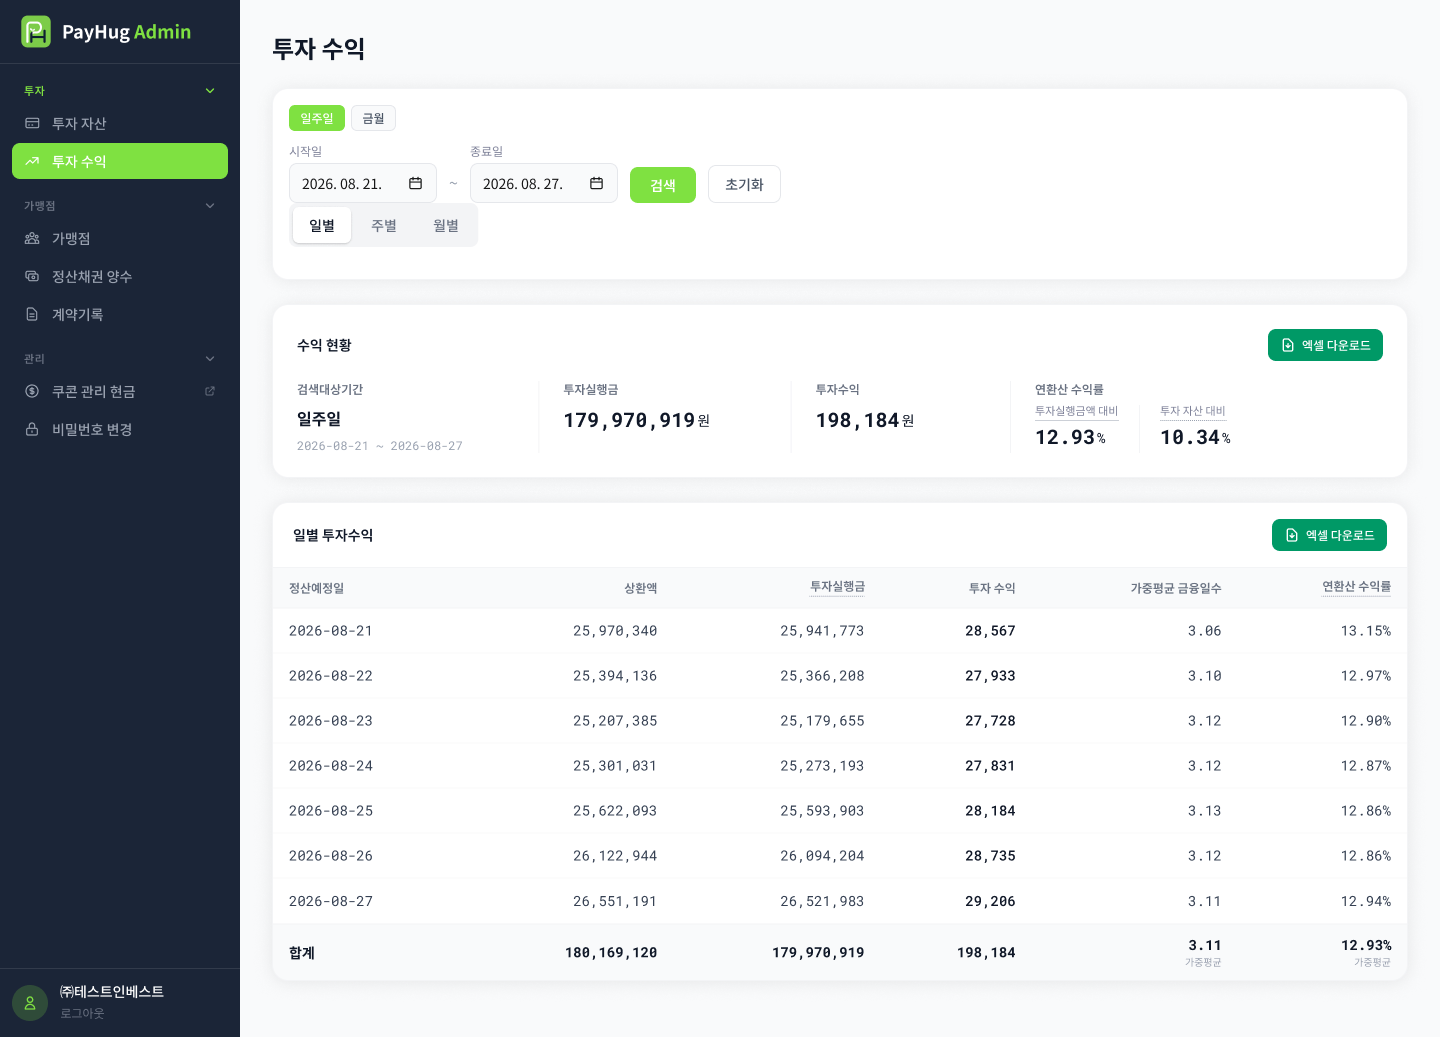
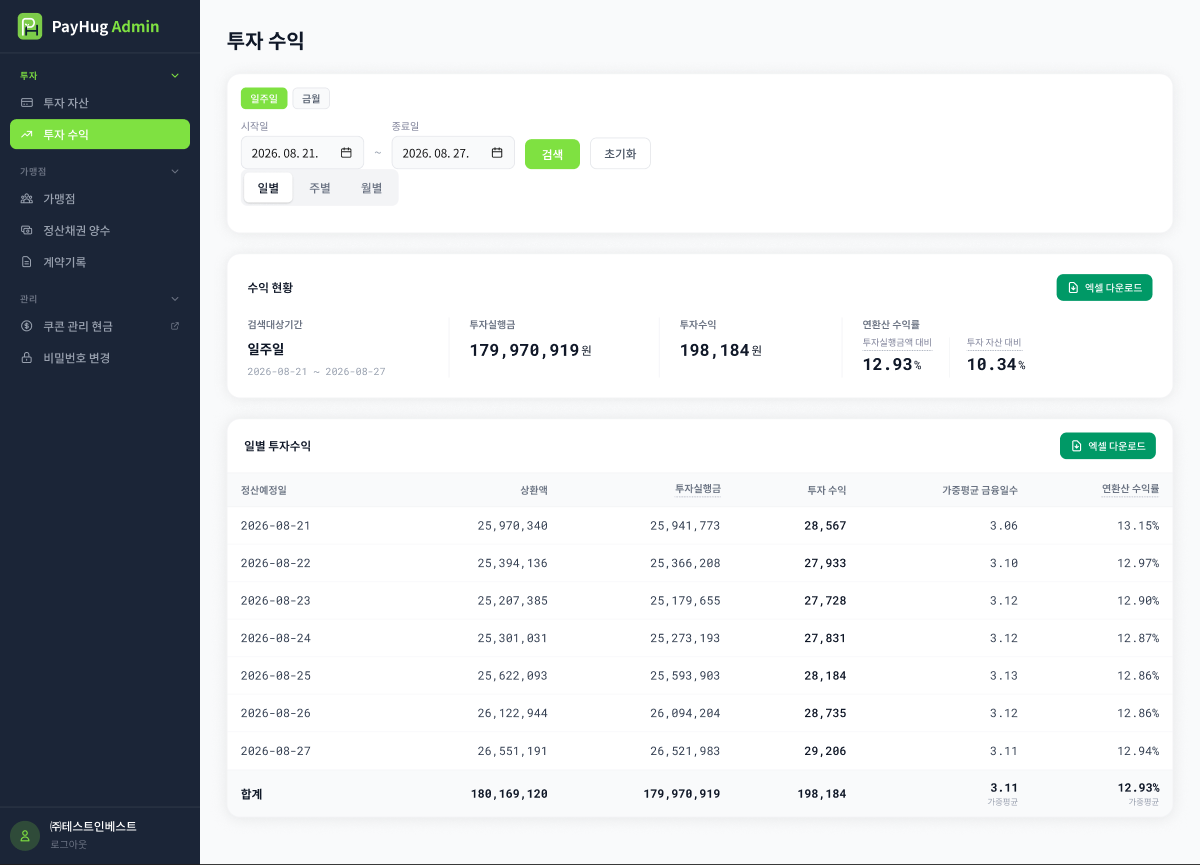
투자자 어드민 — 입금부족액 0 판 배포 QA 보고(step16) · Figma 검수 캡처

diff --git a/payhug-spec/_pipeline/investor_admin/session_0904/reports/step16_qa_zero.md b/payhug-spec/_pipeline/investor_admin/session_0904/reports/step16_qa_zero.md
@@ -1,0 +1,199 @@
+# step16 QA — 원장 입금부족액 0 · 두 배포본 실측
+
+2026-09-09. 통합본 https://payhug-investor-demo.vercel.app/ (`Joo2n/payhug-investor-admin` main `2db5f01`) · 시연본 https://payhug-investor-prototype.vercel.app/ (`Joo2n/payhug-investor-prototype` main `1af503f`). 직전 판 통합본 `d9af5a7` · 시연본 `7ba7f26` 은 git 에서 꺼내 로컬 서버(127.0.0.1:8777)로 띄워 대조. 헤드리스 크롬(`--headless=new`, CDP 포트 9777~9780, 전용 프로필) + `Input.dispatchMouseEvent` 실클릭 · 실제 hover · `Browser.downloadWillBegin/downloadProgress` 실다운로드. 뷰포트 `Emulation.setDeviceMetricsOverride` 1440×900. 파일 수정 0건, 띄운 크롬 4개 전부 종료(잔존 0).
+
+## 1. 하지 않은 것 · 확인 못 한 것
+
+| 구분 | 무엇 | 왜 |
+|---|---|---|
+| 하지 않음 | 문서 페이지·용어 해설(`glossary.html` 등 13장, 통합본 전용)의 옛 값 판정 | 지시대로 세어 적기만 함(§5). 배포본 = 로컬 (cmp 13/13 동일) |
+| 하지 않음 | 시연본 재동기화·Figma·`gate_prototype.js` | 범위 밖 |
+| 하지 않음 | 가맹점·정산채권 양수·계약기록·비밀번호 화면의 값 판정 | 이번 변경 대상 아님. 옛 값 잔존 스캔에는 포함(48·35 라우트) |
+| 확인 못 함 | 증명서 PDF 의 「투자자산 100,000,000 · 순현금 · 3.04일 · 13.21%」 | PDF 본문에 그 값이 없음(직전 판 `d9af5a7` PDF 도 없음). PDF 의 투자 자산 값은 가맹점별 표 합계 80,000,000 하나 |
+| 확인 못 함 | 시연본의 직전 판 툴팁을 배포 URL 로 | 배포는 최신만 있어 git `7ba7f26` 로컬 렌더로 대조 |
+
+## 2. 판정표
+
+PASS **44** · FAIL **2** (§2-10 C4 · §2-8 G8). 값은 전부 실측(확정). 기대값 출처는 지시문과 `ledger_facts.json`(믿지 않고 화면·파일에서 다시 읽음).
+
+### 2-1. 배포본 = 로컬 (A)
+
+| # | 대상 | 항목 | 기대 | 실측 | 판정 |
+|---|---|---|---|---|---|
+| A1 | 통합본 `app.html` | sha256 · md5 = 로컬 | 같음 | `dc560a28…5096` · `8344db8f…8355` 둘 다 같음 | PASS |
+| A2 | 통합본 루트 `index.html` | sha256 = 로컬 | 같음 | `5b123f27…eee2` 같음 | PASS |
+| A3 | 시연본 `index.html` | sha256 · md5 = 로컬 | 같음 | `15b59269…8e12` · `3baa75e1…9161` 같음 | PASS |
+| A4 | 양 배포본 `assets/xlsx` 6종 · `assets/docs` PDF | 배포 = 로컬 | 같음 | 6 xlsx + PDF, 통합본·시연본 모두 로컬과 sha256 동일 (`94caf7fd` `16a3ef38` `527ce3ba` `00ef9b31` `9f1a0ed0` `b7b77c29` · PDF `bb5a7833`) | PASS |
+| A5 | 통합본 낱장 15장 · 문서 13장 | 배포 = 로컬 | 같음 | `cmp` 28/28 동일 | PASS |
+
+### 2-2. 투자 자산 (통합본 · 시연본 같은 값)
+
+| # | 항목 | 기대 | 실측 | 판정 |
+|---|---|---|---|---|
+| B1 | 카드 4 | 100,000,000 · 80,000,000 · 20,000,000 · 13.21% (부제 3.04일) | 「투자자산 100,000,000원 / 투자실행액 + 순현금」 「투자실행액 80,000,000원」 「순현금 20,000,000원」 「예상 연환산 수익률 13.21% / 가중평균 금융일수 3.04일 기준」 | PASS |
+| B2 | 현황 표 | 열 5 · 입금부족률 0.00% | 머리 「자산 구분·금액 (원)·가중평균 금융일수·입금부족률·예상 연환산 수익률」 5열 · 투자실행액 80,000,000 / 3.04일 / **0.00%** / 13.21% · 순현금 20,000,000 / - / - / - · 합계 (투자자산) 100,000,000 | PASS |
+| B3 | 가맹점별 표 | 8행 입금부족률 0.00%, 나머지 같음 | 8행 전부 **0.00%** · 투자실행액 19,334,743 ~ 3,981,371 · W 3.02 ~ 2.52 · 예상 연환산 13.29 ~ 15.95 · 비중 24.2 · 22.6 · 14.8 · 11.6 · 8.8 · 7.0 · 6.0 · 5.0 · 「총 8건」 · 보기 10 | PASS |
+| B4 | 투자자 공유 정리 | 카드 아래 비중·보관 줄 0 | `.summary-sub` 는 「투자실행액 + 순현금」 「가중평균 금융일수 3.04일 기준」 2줄뿐. 화면 텍스트 「보관」 0 · 「비중」 1(가맹점별 표 열머리) | PASS |
+
+### 2-3. 투자 수익 — 일별 기본 기간 (통합본 · 시연본 같은 값)
+
+| # | 항목 | 기대 | 실측 | 판정 |
+|---|---|---|---|---|
+| C1 | 카드 | 179,970,919 · 198,184 · ④ 12.93% · ⑤ 10.34% | 「검색대상기간 일주일 2026-08-21 ~ 2026-08-27」 「투자실행금 179,970,919원」 「투자수익 198,184원」 「연환산 수익률 투자실행금액 대비 12.93% · 투자 자산 대비 10.34%」 | PASS |
+| C2 | 08-21 행 | 25,970,340 · 25,941,773 · 28,567 · 3.06 · 13.15% | 같음. 나머지 6행: 08-22 25,394,136/25,366,208/27,933/3.10/12.97% · 08-23 25,207,385/25,179,655/27,728/3.12/12.90% · 08-24 25,301,031/25,273,193/27,831/3.12/12.87% · 08-25 25,622,093/25,593,903/28,184/3.13/12.86% · 08-26 26,122,944/26,094,204/28,735/3.12/12.86% · 08-27 26,551,191/26,521,983/29,206/3.11/12.94% | PASS |
+| C3 | 합계 행 | 180,169,120 · 179,970,919 · 198,184 · 3.11 · 12.93% | 「합계 180,169,120 / 179,970,919 / 198,184 / 3.11 가중평균 / 12.93% 가중평균」 | PASS |
+| C5 | 투자 수익 ÷ 투자실행금 = 0.1101% (±0.0001) 7행 | 7/7 | 0.110120 · 0.110119 · 0.110121 · 0.110121 · 0.110120 · 0.110120 · 0.110120 % → **7/7** (합계 0.110120%) | PASS |
+
+### 2-4. 투자 수익 — 주별 · 월별 · 금월 · 빈 상태 · 초기화 (양쪽 같은 값, 실클릭)
+
+| # | 항목 | 실측 | 판정 |
+|---|---|---|---|
+| C6 | 「주별」 클릭 → 4주 자동 선택 → 「4주」 클릭 | 배지 「주별」 · 08-03 ~ 08-27 · 648,903,503원 · 714,567원 · 13.27% / 10.58% · 4행(200,658 · 198,535 · 201,418 · 113,956) · 합계 649,618,119 / 648,903,503 / 714,567 / 3.03 / 13.27% | PASS |
+| C6′ | 「12주」 클릭 | 06-08 ~ 08-27 · 2,114,145,541원 · 2,328,080원 · 13.25% / 10.58% · 12행 · 합계 2,116,473,764 / 2,114,145,541 / 2,328,080 / 3.03 / 13.25% | PASS |
+| C7 | 「월별」 클릭 → 6개월 자동 → 「6개월」 클릭 | 배지 「월별」 · 03-01 ~ 08-27 · 4,700,503,303원 · 5,176,160원 · 13.25% / 10.58% · 6행 연환산 13.20 · 13.37 · 13.16 · 13.14 · 13.35 · 13.27 (= `ledger_facts.monthTy`) · W 3.05 · 3.01 · 3.05 · 3.06 · 3.01 · 3.03 | PASS |
+| C7′ | 「3개월」 클릭 | 06-01 ~ 08-27 · 2,296,624,838원 · 2,529,024원 · 13.25% / 10.58% · 3행 | PASS |
+| C8 | 「일별」 복귀 → 「금월」 클릭 | 일별 복귀 시 일주일 기본으로 돌아옴(C1 과 같음). 금월 08-01 ~ 08-27 · 702,712,201원 · 773,821원 · 13.27% / 10.59% · 27행 · 비율 0.1101% 27/27 | PASS |
+| C9 | 시작일 02-01 · 종료일 02-07 입력 → 「검색」 클릭 | 배지 「결과 없음」 · 직접입력 · 0원 · 0원 · 0.00% / 0.00% · 표 「조회 결과가 없습니다.」 · 엑셀 버튼 2개 disabled · 토스트 「조회 결과 0건 · 2026-02-01 ~ 2026-02-07」 | PASS |
+| C10 | 「초기화」 클릭 | 일주일 08-21 ~ 08-27 로 복귀, 값 C1~C3 과 같음 | PASS |
+
+### 2-5. 투자 시뮬레이션 (통합본 전용)
+
+| # | 항목 | 기대 | 실측 | 판정 |
+|---|---|---|---|---|
+| D1 | 기본 입력 | 미지급률 0 · 과지급률 0 | 투자자산 규모 99,912,000 · 유휴자금 20 · 할인율 0.11 · 순현금 20,000,000 · **미지급률 0 · 과지급률 0** · 08-21 ~ 08-27 · 채권 8건 합계 120,000,000원 (`app.html:2488` `SIM_DEFAULT`) | PASS |
+| D2 | 「시뮬레이션 실행」 실클릭 → 결과 현황 표 | 입금부족률 0.00% | 버튼 「계산 중...」(disabled) → 배지 「실행 결과」 · 해시 `#invest-sim/result` · 현황 표 투자실행액 79,912,000 / 3.04일 / **0.00%** / 13.21% | PASS |
+| D3 | 결과 나머지 | 기록 | 카드 99,912,000 · 79,912,000 · 20,000,000 · 13.21%(3.04일) · 수익 현황 7일 · 39,956,000원 · 44,000원 · 13.22% / 6.14% · 채권별 산출 8행 미지급 차감 전부 0 · 일별 4행 합계 40,000,000 / 39,956,000 / 44,000 / 3.04 / 13.22%. 직전 판은 16,000원 · 4.81% · 2.23% · 0.07% | PASS |
+
+### 2-6. 증명서 (양쪽, 실클릭)
+
+| # | 항목 | 실측 | 판정 |
+|---|---|---|---|
+| E1 | 「증명서 다운로드」 → 모달 → 「발급」 | 모달 「투자자산 증명서 발급 · 2026-08-27 마감 기준 … 대상 가맹점 8개 · 작성자 ㈜페이허그 · 취소 / 발급」 → `#certificate` 「가맹점별 투자자산 증명서」 · 투자자 ㈜테스트인베스트 · 작성일자 2026-08-27 · 표 8행 입금부족률 전부 0.00% · 비중 합 100 | PASS |
+| E2 | 「PDF 다운로드」 실클릭 | `Browser.downloadWillBegin` → completed 245,257 B · sha256 = 로컬 · 토스트 「투자자산증명서_20260827.pdf 내려받기 완료」. PyMuPDF 본문: 2쪽, 가맹점 8행 「0.00%」 8건, 「0.07%」「61,175」「3.99%」「3.19%」 0건, 합계 80,000,000 | PASS |
+| E3 | PDF 투자 자산 값 | PDF 에 있는 투자 자산 값은 합계 80,000,000 하나이고 직전 판과 같음. 100,000,000 · 20,000,000 · 3.04 · 13.21 은 직전 판 PDF 에도 없음 | PASS(범위 주기) |
+
+### 2-7. 툴팁 (B) — 실제 hover, 직전 판과 줄 단위 대조
+
+렌더된 툴팁 인스턴스는 투자 자산 8(투자실행액 카드 · 예상 연환산 카드 · 현황 표 3 · 가맹점별 표 3) + 투자 수익 4 = 12 (통합본은 시뮬 결과 4 를 더해 16). 소스 자리로는 8곳(`popTh` 가 가중평균 금융일수·입금부족률을 함께 냄).
+
+| # | 항목 | 기대 | 실측 | 판정 |
+|---|---|---|---|---|
+| F1 | hover 표시 | 패널이 뜬다 | 12/12(통합본 16/16) `display: block` · 폭 256px, 마우스 떼면 `none` | PASS |
+| F2 | 산식 줄 = 직전 판 | 값 줄만 바뀜 | 통합본 16/16 · 시연본 12/12 줄 수 같음. 바뀐 줄은 ④ 「0.033992% → 0.110120%」「61,175원 → 198,184원」, ⑤ 「3.99% → 12.93%」, 시뮬 ④ 「0.040044% → 0.110121%」「16,000원 → 44,000원」, 시뮬 ⑤ 「4.81% → 13.22%」 뿐. 산식 줄·「연환산」 설명 줄 전부 동일 | PASS |
+| F3 | ④ 「투자실행금액 대비」 | PMR 0.110120% · PM 198,184원 · PA 179,970,919원 · PD 3.11일 | `PYa = PMR × 365 ÷ PD` / PMR 0.110120% / PM 198,184원 / PA 179,970,919원 / PD 3.11일 / 연환산 … | PASS |
+| F4 | ⑤ 「투자 자산 대비」 | PY_a 12.93% · Σ(A_i×D_i) 559,275,516원 · PEC 140,000,000원 | `PYt = PYa × 채권 비중 + 순현금 수익률 × 순현금 비중` / `= PM × 365 ÷ ( Σ( Ai × Di ) + PEC )` / PYa 12.93% / Σ( Ai × Di ) 559,275,516원 / PEC 140,000,000원 / EC 20,000,000원 × 7일 | PASS |
+| F5 | 입금부족률 | 「LR = Σ L_i ÷ Σ A_i」 · 3,200건 | `LR = Σ Li ÷ Σ Ai` / i 선정산일이 오늘 기준 20일 전 ~ 11일 전 · 3,200건 (현황 표·가맹점별 표 같음) | PASS |
+| F6 | 나머지 | 값 유지 | 투자실행액 `Σ Ai` / Ai 순지급액i × (1 − r) / r 0.11% · 예상 연환산 `Yr = r × 365 ÷ D` / r 0.11% / D 3.04일 · 가중평균 금융일수 `D = Σ( Ai × Di ) ÷ Σ Ai` / 보유 채권 전체 · 61,760건 · 투자실행금(열) `PA = Σ Ai` / 정산예정일이 그 날짜인 보유 채권 · 연환산 수익률(열) `PYa = PMR × 365 ÷ PD` | PASS |
+
+### 2-8. 엑셀 실클릭 (C) — 양쪽, `Browser.downloadWillBegin` → completed, 파일은 openpyxl 로 읽음
+
+| # | 항목 | 기대 | 실측 | 판정 |
+|---|---|---|---|---|
+| G1 | 투자 수익 「엑셀 다운로드」(일별) | 7행 투자 수익 합 198,184 · 연환산 12.93% | `일별투자수익_2026-08-21_2026-08-27.xlsx` 5,867 B = 로컬. 7행 투자 수익 28,567 + 27,933 + 27,728 + 27,831 + 28,184 + 28,735 + 29,206 = **198,184** · 합계 행 F11 = 0.1293 (백분율 서식) · 합계 상환액 180,169,120 · 투자실행금 179,970,919 · W 3.11 | PASS |
+| G2 | 「엑셀 다운로드」(수익 현황) | ④ ⑤ | `투자수익현황_2026-08-21_2026-08-27.xlsx` 5,468 B. 「검색대상기간 일주일 (2026-08-21 ~ 2026-08-27)」 · 투자실행금 179,970,919 · 투자수익 198,184 · 연환산 수익률 (투자실행금액 대비) **0.1293** · (투자 자산 대비) **0.1034** | PASS |
+| G3 | 투자 자산 「엑셀 다운로드」(현황) | 입금부족률 0.00% · 5열 | `투자자산현황_2026-08-27_2026-08-27.xlsx` 5,600 B. 열 A~E **5열** · 투자실행액 80,000,000 / 3.04 / **0** / 0.1321 · 순현금 20,000,000 · 합계 100,000,000 | PASS |
+| G4 | 「엑셀 다운로드」(가맹점별) | 8행 0.00% | `가맹점별투자자산_2026-08-27_2026-08-27.xlsx` 6,093 B. 입금부족률 열 8행 전부 **0** · 비중 0.242 ~ 0.05 · 합계 80,000,000 · 1 | PASS |
+| G5 | 주별(4주) · 월별(6개월) 「엑셀 다운로드」 | 실물 | `주별투자수익_2026-08-03_2026-08-27.xlsx` 5,774 B (4행 합계 714,567 · 0.1327) · `월별투자수익_2026-03-01_2026-08-27.xlsx` 5,848 B (6행 합계 5,176,160 · 0.1325). 토스트 파일명 일치 | PASS |
+| G6 | 통합본 미리보기 화면 4종 `#xls-*` 「엑셀 파일 내려받기」 실클릭 | 실물 · 시트 값 | 4/4 다운로드 completed(5,600 · 6,093 · 5,468 · 5,867 B). 시트 셀: 투자자산 현황 0.00% · 가맹점별 8행 0.00% · 투자수익 현황 198,184 / 12.93% / 10.34% · 일별 7행 + 합계 198,184 / 12.93%. 파일바 생성일시 2026-09-09 17:49 | PASS |
+| G7 | 가맹점별 다운로드 뒤 상태 | 상태 전이 | 버튼 「다운로드 중...」(disabled 350ms) → 상태 `download` · 배지 「엑셀 다운로드 완료」 · 버튼 「다운로드 완료」(`is-done`) · 토스트 「가맹점별투자자산_….xlsx 내려받기 완료」 · 해시 `#invest-assets/download` | PASS |
+| G8 | 가맹점별 다운로드 뒤 증명서 모달 취소·발급 | 파일은 누른 버튼의 것만 한 번 | **취소·발급 모두 가맹점별 xlsx 가 한 번 더 내려옴**(양쪽, §3-2) | **FAIL** |
+
+### 2-9. 옛 값 잔존 (D)
+
+| # | 대상 | 방법 | 실측 | 판정 |
+|---|---|---|---|---|
+| H1 | 통합본 | 화면 15 + 상태 33 = 48 라우트를 해시로 들어가 보이는 화면 innerText + 열린 모달 + 토스트 | 「0.07%」「61,175」「3.99%」「3.19%」 **0건** | PASS |
+| H2 | 시연본 | 35 라우트 같은 방법 | **0건** | PASS |
+| H3 | 양쪽 | 렌더 후 `outerHTML`(주석 포함) · 숨은 `.tip-panel` · 모달 전건 textContent | 0건 (직전 판은 통합본 outerHTML 8·5·4·1, 시연본 3·3·2·0) | PASS |
+
+### 2-10. 항등식 (A 후반)
+
+| # | 항목 | 기대 | 실측 | 판정 |
+|---|---|---|---|---|
+| C4 | 일별 7행 「상환액 − 투자실행금 = 투자 수익」 | 7/7 | **1/7**. 08-21 만 성립(28,567). 08-22 −5 · 08-23 +2 · 08-24 +7 · 08-25 +6 · 08-26 +5 · 08-27 +2 (원). 합계 행 180,169,120 − 179,970,919 = 198,201 ≠ 198,184 (17원). 주별 4행 +3 ~ +20 · 월별 6행 +28 ~ +97 · 금월 27행 −6 ~ +11 (양쪽 배포본·엑셀 실물 같은 값) | **FAIL** |
+
+### 2-11. 그대로여야 하는 것 (E)
+
+| # | 항목 | 실측 | 판정 |
+|---|---|---|---|
+| I1 | 탭 제목 | 통합본 「PayHug Admin — 통합 프로토타입」 · 시연본 「PayHug 투자자 어드민」 | PASS |
+| I2 | 사이드바 | 그룹 「투자 · 가맹점 · 관리」, 통합본 8메뉴(투자 자산 · 투자 수익 · 투자 시뮬레이션 · 가맹점 · 정산채권 양수 · 계약기록 · 쿠콘 관리 현금 · 비밀번호 변경), 시연본 7메뉴(시뮬레이션 없음). 직전 판과 문자열 동일 | PASS |
+| I3 | 「㈜테스트인베스트」 | 사이드바 하단 · 증명서 모달 · 증명서 화면 · PDF · 엑셀 제목 줄 전부 있음 | PASS |
+| I4 | 콘솔 | 4 대상 × 전 조작 `Runtime.exceptionThrown` · console.error 0 | PASS |
+
+## 3. 결함 재현
+
+### 3-1. C4 — 일별 표 행에서 상환액 − 투자실행금 ≠ 투자 수익 (최대 7원, 합계 17원) — 양쪽 배포본 · 엑셀 실물
+
+재현: 투자 수익 기본 화면(일주일)에서 각 행의 상환액 − 투자실행금을 셈. 08-24 행 25,301,031 − 25,273,193 = 27,838, 표의 투자 수익은 27,831.
+
+원인(확정, 생성기 코드): `daily_ledger.py:406` 채권매입수수료는 **그날 순지급액 합계**에 0.11% 를 곱해 절사(`fl(D(g['net']) * RATE)`), 투자실행금은 **채권별로 끊은** A_i 의 합(`:398` `g['ai'] += r['ai']`), 상환액은 순지급액 합(`:417` `repay=g['net'] - g['ded']`, 부족액 0). 세 값이 서로 다른 자리에서 원 단위로 끊겨 행마다 몇 원이 어긋납니다. 생성기 주석 `:409-411` 이 이를 알고 「하루 최대 7원」 이라 적어 두었고, 빌더 보고 §3-1 도 합계 17원 차를 절사 차로 적었습니다.
+
+주석의 「하루 최대 7원」 은 실측과 어긋납니다(확정): 금월 프리셋 08-01 행 26,830,038 − 26,800,514 = 29,524 vs 29,513 (**11원**), 08-16 행 28,906 vs 28,895 (**11원**).
+
+고칠 자리는 둘 중 하나이고 결정이 필요합니다.
+- 표 정의를 「상환액 = 순지급액」 으로 두고 항등식을 요구하지 않는다 → 툴팁·문서에 「상환액은 순지급액 합, 투자 수익은 수수료 절사 합이라 원 단위로 다를 수 있다」 를 적어야 하고, 생성기 주석 `:411` 의 「최대 7원」 을 실측(11원)에 맞게 고칩니다.
+- 항등식을 요구한다 → `daily_ledger.py:406` 의 수수료를 채권별 절사 합으로 바꾸거나(`fee = Σ fl(net_i × RATE)`), 상환액을 `exec + profit` 로 정의합니다. 후자는 상환액 ≠ 순지급액이 되어 지시문 「상환액 = 순지급액」 과 어긋납니다.
+
+### 3-2. G8 — 가맹점별 엑셀을 내려받은 뒤 증명서 모달을 취소·발급하면 가맹점별 xlsx 가 한 번 더 내려옴 — 양쪽 배포본
+
+재현(실클릭, 양쪽 2/2):
+
+| 순서 | 클릭 | 다운로드 누적 | 상태 · 토스트 |
+|---|---|---|---|
+| a1 | 가맹점별 「엑셀 다운로드」 | 1 | `download` · 「가맹점별투자자산_….xlsx 내려받기 완료」 |
+| a2 | 「증명서 다운로드」 | 1 | `cert-confirm` · 모달 |
+| a3 | 모달 「취소」 | **2** | `download` · 같은 토스트 다시 |
+| b3 | (a1·a2 뒤) 모달 「발급」 | **2** | `certificate` 화면으로 넘어가며 파일이 또 내려옴 |
+| c | 가맹점별 엑셀 → 투자 수익 → 투자 자산 복귀 | 1 | 복귀 시 `default`(재다운로드 없음) |
+| d | 엑셀 없이 증명서 → 발급 | 0 | 없음 |
+
+원인(확정, `app.html`): `:3426` `cert-open` → `refresh` → DERIVE `:1938` `cert-confirm` → `syncToast` `:2139` `toastServed = null`. 이어 `:3451-3453` `modal-close`(IA.cert = false) 또는 `:3427` `cert-issue` → `refresh` → DERIVE `:1939` `download` → `syncToast` `:2136` `toastServed !== xk` 가 참이라 `pullFile` 재실행. 직전 판(`d9af5a7` · `7ba7f26`)에 같은 줄이 있고 step12·13 QA 「중」 1건으로 이미 적힌 결함입니다(`step12_qa_report.md:15` · `step13_qa_report.md:15`). 이번 변경과 무관합니다.
+
+고칠 자리: `app.html:2139` 의 `toastServed = null` 을 `IA.downloaded` 가 거짓일 때만 실행하거나, `cert-confirm` 상태로 갈 때는 건너뜁니다. 시연본은 `sync_prototype.sh` 로 다시 만들면 따라옵니다.
+
+## 4. 총평
+
+**PASS 44 · FAIL 2.** 이번 변경(입금부족액 0)의 목표값은 두 배포본 화면·툴팁·엑셀·PDF·시뮬레이션에서 전부 실측대로 나왔고, 옛 값 4종은 두 배포본의 48·35 라우트 innerText 와 소스에서 0건입니다. FAIL 2건은 (C4) 지시문의 행 단위 항등식이 원 단위 절사로 6/7 행에서 깨지는 것(생성기가 의도한 절사이나 주석의 한계값 7원이 실측 11원과 어긋남, 결정 필요)과 (G8) 이번 변경 전부터 있던 가맹점별 엑셀 재다운로드입니다.
+
+## 5. 문서 페이지·용어 해설 옛 값 (통합본 전용, 세어 적기만)
+
+배포 URL 에서 받아 `grep -o` 로 셈(줄 수가 아니라 등장 횟수). 배포 = 로컬 13/13.
+
+| 파일 | 0.07% | 61,175 | 3.99% | 3.19% |
+|---|---|---|---|---|
+| glossary.html | 6 | 7 | 10 | 2 |
+| steps-all.html | 11 | 14 | 8 | 0 |
+| calc.html | 1 | 3 | 2 | 0 |
+| terms-edit.html | 1 | 3 | 1 | 0 |
+| final-terms.html | 0 | 2 | 4 | 0 |
+| capability.html | 1 | 0 | 3 | 2 |
+| feasibility.html | 0 | 0 | 1 | 1 |
+| inquiry.html | 0 | 0 | 2 | 4 |
+| index · archive · ceo-questions · review · login | 0 | 0 | 0 | 0 |
+
+낱장 15장(`invest-*.html` · `certificate.html` · `xls-*.html`)은 0건.
+
+## 6. DOM만 보면 결함이나 실제로는 정상
+
+| 현상 | 실제 |
+|---|---|
+| `.tip-panel` 이 DOM 에서 `display: none` 이라 툴팁이 비어 보임 | `base.css:507` `.tooltip:hover .tip-panel { display:block }`. 실제 hover 로 12/12 표시, 폭 256px |
+| 통합본 사이드바 `href="invest-assets.html"` 이라 전체 페이지 이동처럼 보임 | `app.html:3666` 이 `FILE2SCREEN` 으로 가로채 `go()`. 실클릭 결과 해시 `#invest-assets`, 화면 전환만 일어남 |
+| 엑셀 버튼이 클릭 직후 `disabled` · 「다운로드 중...」 | 350ms 바쁨 표시(`xlsBusy`). 이후 원래 문구로 복귀, 파일은 이미 내려옴 |
+| 시뮬레이션 버튼이 「계산 중...」 `disabled` | 실행 중 표시. 50ms 간격 관찰에서 「계산 중...\|true\|결과 없음」 → 「시뮬레이션 실행\|false\|결과 있음」 |
+| 투자 자산 화면 텍스트에 「비중」 이 1건 있어 공유 정리 위반처럼 보임 | 가맹점별 표의 열머리 「비중」. 카드 아래 비중·보관 줄은 0 |
+| 시연본에 `invest-sim` · `xls-*` 화면이 없음 | `gate_prototype.js` `PROTO_DROPPED` 로 의도된 제거 |
+| 통합본 `#xls-profit-daily` 등 미리보기 화면으로 가는 버튼이 없음 | 해시 딥링크 전용 화면. 값·다운로드는 G6 로 정상 |
+| `#invest-assets/download` 해시로 바로 들어가면 파일이 내려옴 | `syncToast` 의 상태 진입 전달(step15 QA N2). 버튼 클릭 뒤에는 `toastServed` 가 재전달을 막음(G8 은 그 표식이 지워지는 별개 경로) |
+| 증명서 PDF 에 투자자산 100,000,000 · 13.21% 가 없음 | 직전 판 PDF 에도 없음. 문서 범위가 가맹점별 표(합계 80,000,000)뿐 |
+
+## 7. 산출물 · 임시 파일
+
+| 경로 | 내용 |
+|---|---|
+| `/Users/semi/cursor/payhug/payhug-spec/_pipeline/investor_admin/session_0904/reports/step16_qa_zero.md` | 이 보고 |
+| `/Users/semi/cursor/payhug/payhug-spec/_pipeline/investor_admin/session_0904/qa/zero_0909/admin_invest-assets.png` | 통합본 투자 자산 1440×1071 |
+| `/Users/semi/cursor/payhug/payhug-spec/_pipeline/investor_admin/session_0904/qa/zero_0909/admin_invest-profit.png` | 통합본 투자 수익 1440×1037 |
+| `/Users/semi/cursor/payhug/payhug-spec/_pipeline/investor_admin/session_0904/qa/zero_0909/proto_invest-profit.png` | 시연본 투자 수익 1440×1037 |
+| `/private/tmp/claude-501/-Users-semi-cursor-payhug/9aed3429-fc00-4785-9abd-c254e437cf03/scratchpad/qa_zero_0909/` | 드라이버 `probe.js`(4 대상) · `probe2.js`(미리보기·계산 중·로그인) · `probe3.js`(전 라우트 innerText) · `probe4.js`(G8 재현) · 결과 JSON `probe_all.json` `probe2.json` `probe3.json` `probe4.json` · 내려받은 실물 `dl/{admin,proto,admin_xlsprev,repro_*}/` · 직전 판 HTML `prevsrv/` · 배포 사본 `remote_*.html` `docs_remote/` `static_remote/` · 크롬 프로필 `chrome-profile*` |
